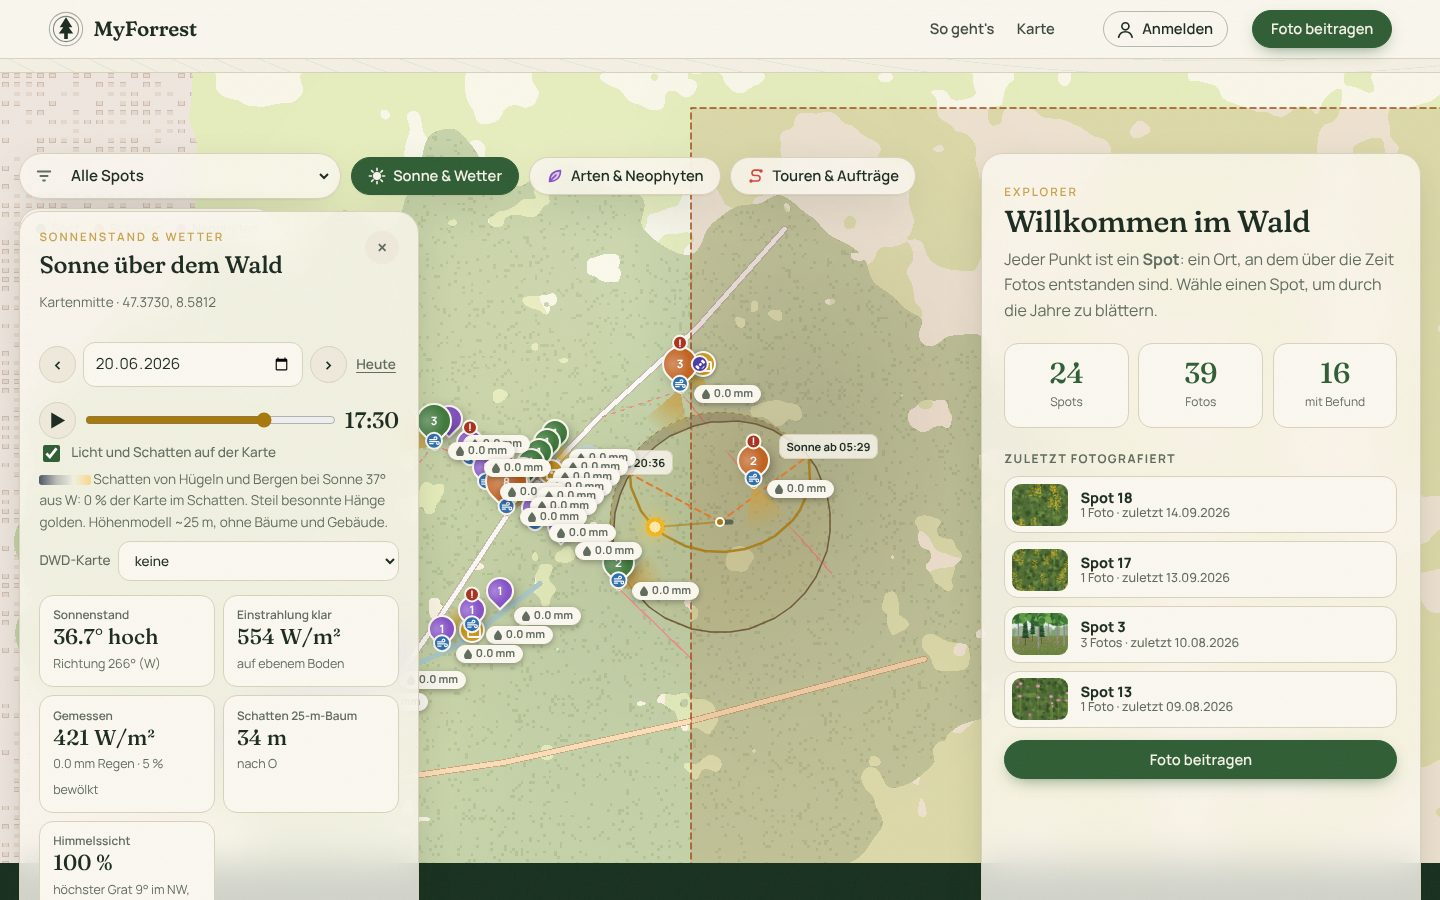
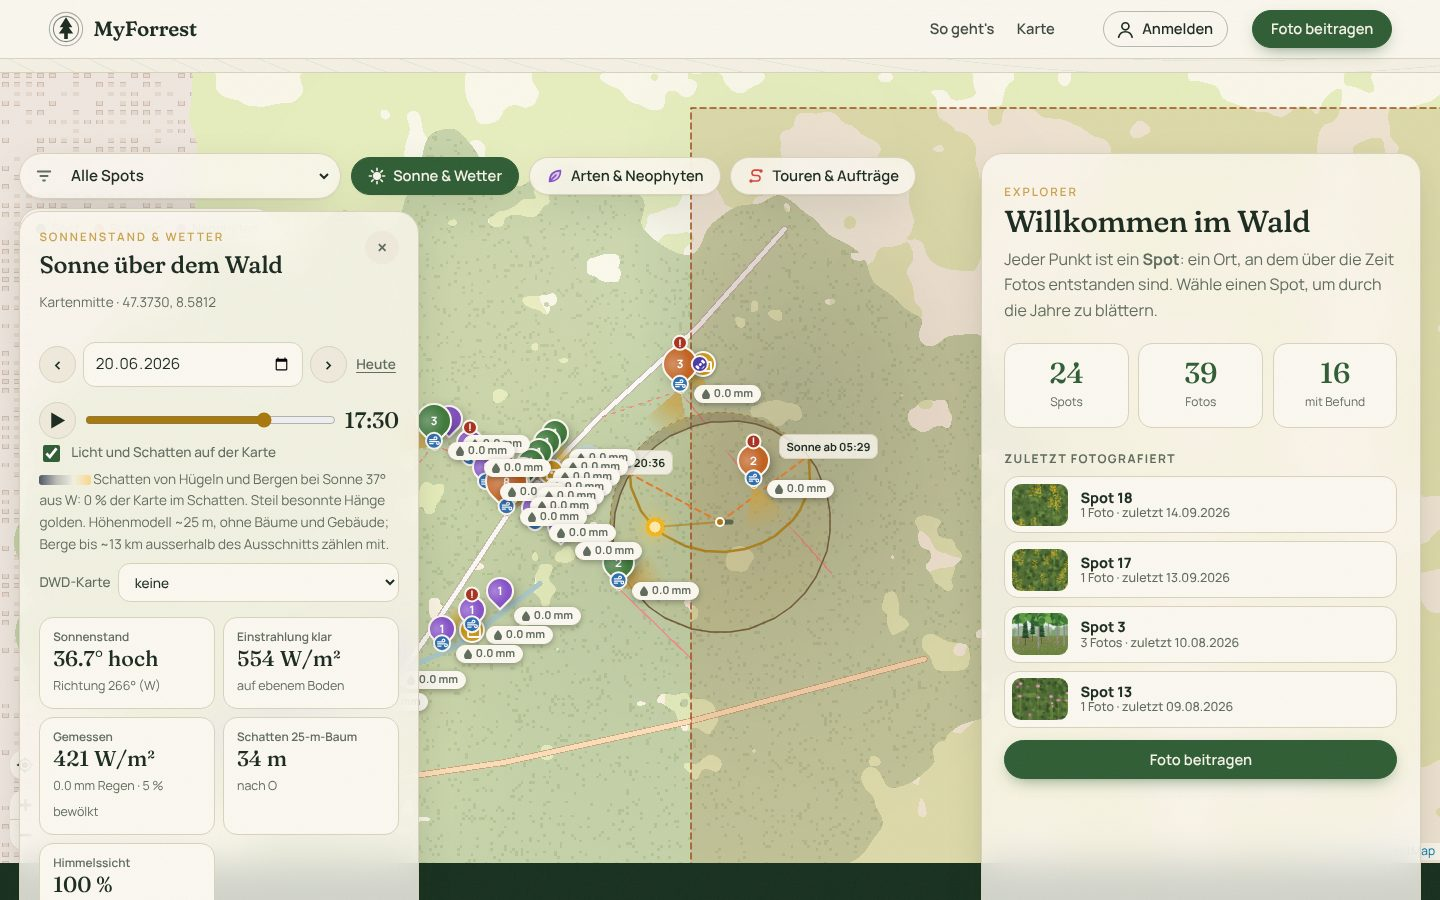
Licht und Schatten: ferne Berge, Erdkrümmung, weicher Halbschatten
- Strahl läuft nach dem feinen Raster durch ein 4× gröberes Raster der
  Umgebung weiter (bei Zoom 13 bis ~50 km), damit Jura und Alpen bei tiefer
  Sonne ihre langen Schatten werfen; Erdkrümmung mit Lichtbrechung
- Schattenrand über die Sonnenscheibe (0,53°) plus eine Zelle, bilinear
  abgetastet: weiche Kanten statt Treppen
- Panel nennt die Reichweite; Tests, Doku, Roadmap, Screenshots

Claude-Session: https://claude.ai/code/session_01LoLoiuF5pa1wgakXucVZbJ

Changed region(s): [[0.0312, 0.5911, 0.2812, 0.9956], [0.1562, 0.6533, 0.25, 0.8711], [0.9688, 0.9333, 1.0, 0.9644]]

diff --git a/public/shade.js b/public/shade.js
@@ -7,11 +7,14 @@
  * Elevations come as a grid in Web Mercator pixels (e.g. Terrarium tiles,
  * decoded with `terrarium`). For each cell of the area asked for, a ray
  * walks towards the sun one cell at a time; the cell lies in the terrain's
- * shadow as soon as the ground along the ray rises above the ray. The ray
- * stops when it is higher than the highest point of the grid or leaves the
- * grid, so terrain outside the grid casts no shadow. Slopes facing away from
- * the sun lie in their own shadow. Earth curvature is ignored (a few metres
- * over the few kilometres of a grid).
+ * shadow as soon as the ground along the ray rises above the ray (gradually,
+ * over the width of the sun's disc: the half shadow). Beyond the
+ * fine grid the ray goes on through an optional coarse grid of the wider
+ * surroundings (`far`), so distant ridges and mountains shade too when the
+ * sun is low. The ray stops when it is higher than the highest point of the
+ * grids or leaves them. Distant ground sinks with the Earth's curvature
+ * (with standard refraction). Slopes facing away from the sun lie in their
+ * own shadow.
  */
 (function (root, factory) {
   if (typeof module === 'object' && module.exports) module.exports = factory();
@@ -20,6 +23,12 @@
   'use strict';
 
   const RAD = Math.PI / 180;
+  const EARTH_R = 6371000;
+  const REFRACTION_K = 0.13;
+  const SUN_HALF_TAN = Math.tan(0.267 * RAD); // the sun's radius as seen from Earth
+  /** How much the ground at distance d (m) sinks below the tangent plane, as seen through the air. */
+  const drop = (d) => ((d * d) / (2 * EARTH_R)) * (1 - REFRACTION_K);
+  const maxOf = (a) => { let m = -Infinity; for (let i = 0; i < a.length; i++) if (a[i] > m) m = a[i]; return m; };
 
   /** Elevation in metres from a Terrarium-encoded pixel. */
   const terrarium = (r, g, b) => r * 256 + g + b / 256 - 32768;
@@ -30,11 +39,16 @@
   /**
    * Light per cell, for the cells x0 ≤ x < x0 + w, y0 ≤ y < y0 + h of the grid
    * (row-major `elev`, width `gw`, height `gh`, north up, `cellM` metres):
-   * 0 = in shadow (cast by the terrain or the slope faces away),
-   * otherwise the beam on the slope relative to flat ground (1 = as flat,
-   * > 1 facing the sun, < 1 turned away). All 0 while the sun is down.
+   * the beam on the slope relative to flat ground in full sun (1 = as flat,
+   * > 1 facing the sun, < 1 turned away, 0 = in shadow or facing away). At the
+   * edge of a shadow it falls off smoothly with the part of the sun's disc
+   * (0.53°) still above the terrain, widened by one cell so the edges do not
+   * show the grid. All 0 while the sun is down.
+   * `far` (optional): `{ elev, gw, gh, scale, ox, oy }`, a coarser grid around
+   * it, `scale` fine cells per coarse cell, the fine grid's corner at coarse
+   * cell coordinates (ox, oy).
    */
-  function light({ elev, gw, gh, cellM, altitude, azimuth, x0 = 0, y0 = 0, w = gw, h = gh }) {
+  function light({ elev, gw, gh, cellM, altitude, azimuth, x0 = 0, y0 = 0, w = gw, h = gh, far = null }) {
     const out = new Float32Array(w * h);
     if (altitude <= 0) return out;
     const tanAlt = Math.tan(altitude * RAD);
@@ -42,10 +56,19 @@
     const cosAlt = Math.cos(altitude * RAD);
     const sx = Math.sin(azimuth * RAD); // towards the sun: east …
     const sy = -Math.cos(azimuth * RAD); // … and south (rows grow southwards)
-    let top = -Infinity;
-    for (let i = 0; i < elev.length; i++) if (elev[i] > top) top = elev[i];
+    const top = maxOf(elev);
+    const farTop = far ? maxOf(far.elev) : -Infinity;
     const rise = cellM * tanAlt; // the ray climbs this much per cell
+    const farCellM = far ? cellM * far.scale : 0;
+    /** Ground between the cell centres (bilinear), so shadows follow the terrain instead of the grid. */
+    const bilinear = (e, ew, eh, qx, qy) => {
+      const fx = Math.max(0, Math.min(ew - 1.001, qx - 0.5)); const fy = Math.max(0, Math.min(eh - 1.001, qy - 0.5));
+      const i = fx | 0; const j = fy | 0; const u = fx - i; const v = fy - j; const r = j * ew + i;
+      return (e[r] * (1 - u) + e[r + 1] * u) * (1 - v) + (e[r + ew] * (1 - u) + e[r + ew + 1] * u) * v;
+    };
     const at = (x, y) => elev[Math.min(gh - 1, Math.max(0, y)) * gw + Math.min(gw - 1, Math.max(0, x))];
+    // Half the height over which the ground at distance d hides the sun's disc gradually: sun radius plus half a cell.
+    const half = (d, cell) => d * SUN_HALF_TAN + cell * tanAlt * 0.5;
 
     for (let j = 0; j < h; j++) {
       const y = y0 + j;
@@ -59,14 +82,41 @@
         const n = Math.sqrt(east * east + north * north + 1);
         const cosInc = (-east * sx * cosAlt + north * sy * cosAlt + sinAlt) / n;
         if (cosInc <= 0) continue; // the slope turns away from the sun
-        let shadow = false;
-        let px = x + 0.5; let py = y + 0.5; let ray = z;
+        let sun = 1; // part of the sun's disc above the terrain
+        const see = (ground, ray, hw) => {
+          const f = 0.5 - (ground - ray) / (2 * hw);
+          if (f < sun) sun = f < 0 ? 0 : f;
+        };
+        let px = x + 0.5; let py = y + 0.5; let ray = z; let steps = 0;
+        let inside = true;
         for (;;) {
-          px += sx; py += sy; ray += rise;
-          if (ray >= top || px < 0 || py < 0 || px >= gw || py >= gh) break;
-          if (elev[(py | 0) * gw + (px | 0)] > ray) { shadow = true; break; }
+          px += sx; py += sy; ray += rise; steps++;
+          if (px < 0 || py < 0 || px >= gw || py >= gh) { inside = false; break; }
+          const hw = half(steps * cellM, cellM);
+          if (ray - hw >= top) {
+            if (!far || ray >= farTop) break;
+            // Nothing here reaches the ray any more: jump to the edge of the fine grid.
+            const k = Math.ceil(Math.min(sx > 0 ? (gw - px) / sx : sx < 0 ? -px / sx : Infinity, sy > 0 ? (gh - py) / sy : sy < 0 ? -py / sy : Infinity)) - 1;
+            if (k > 0) { px += k * sx; py += k * sy; ray += k * rise; steps += k; }
+            continue;
+          }
+          see(bilinear(elev, gw, gh, px, py) - drop(steps * cellM), ray, hw);
+          if (sun === 0) break;
         }
-        if (!shadow) out[j * w + i] = cosInc / sinAlt;
+        if (sun > 0 && !inside && far && ray < farTop) {
+          // On through the wider surroundings, a coarse cell at a time.
+          let qx = far.ox + px / far.scale; let qy = far.oy + py / far.scale;
+          let dist = steps * cellM;
+          for (;;) {
+            qx += sx; qy += sy; dist += farCellM; ray += rise * far.scale;
+            if (qx < 0 || qy < 0 || qx >= far.gw || qy >= far.gh) break;
+            const hw = half(dist, farCellM);
+            if (ray - hw >= farTop) break;
+            see(bilinear(far.elev, far.gw, far.gh, qx, qy) - drop(dist), ray, hw);
+            if (sun === 0) break;
+          }
+        }
+        out[j * w + i] = sun * cosInc / sinAlt;
       }
     }
     return out;

diff --git a/public/sunmap.js b/public/sunmap.js
@@ -299,7 +299,7 @@
   let shadeOverlay = null;
   let shadeToken = 0;
   let shadeFrame = 0;
-  let dem = null; // { key, z, tx0, ty0, gw, gh, elev, missing }
+  let dem = null; // fine grid of the view ({ z, tx0, ty0, gw, gh, elev }) with `far`, the coarse surroundings
   const demTiles = new Map();
   const shadeOn = () => sm.open && $('shade-toggle').checked;
 
@@ -328,20 +328,15 @@
     return demTiles.get(key);
   }
 
-  /**
-   * Elevation grid for the view at DEM zoom map zoom − 2 (≤ 13), with one tile
-   * of margin all round, so hills just outside the view still cast shadows.
-   */
-  async function loadDem() {
+  /** Elevations at DEM zoom `z` for the view plus `margin` tiles all round: `{ key, z, tx0, ty0, gw, gh, elev, missing, total }`. */
+  async function loadGrid(z, margin) {
     const zoom = map.getZoom();
-    const z = Math.min(13, Math.round(zoom) - 2);
     const s = 2 ** (z - zoom);
     const b = map.getPixelBounds();
     const n = 2 ** z;
-    const tx0 = Math.floor((b.min.x * s) / 256) - 1; const tx1 = Math.floor((b.max.x * s) / 256) + 1;
-    const ty0 = Math.max(0, Math.floor((b.min.y * s) / 256) - 1); const ty1 = Math.min(n - 1, Math.floor((b.max.y * s) / 256) + 1);
+    const tx0 = Math.floor((b.min.x * s) / 256) - margin; const tx1 = Math.floor((b.max.x * s) / 256) + margin;
+    const ty0 = Math.max(0, Math.floor((b.min.y * s) / 256) - margin); const ty1 = Math.min(n - 1, Math.floor((b.max.y * s) / 256) + margin);
     const key = `${z}/${tx0}/${ty0}/${tx1}/${ty1}`;
-    if (dem?.key === key) return dem;
     const cols = tx1 - tx0 + 1; const rows = ty1 - ty0 + 1;
     const tiles = await Promise.all(Array.from({ length: cols * rows }, (_, k) => demTile(z, (((tx0 + (k % cols)) % n) + n) % n, ty0 + Math.floor(k / cols))));
     const gw = cols * 256; const gh = rows * 256;
@@ -355,7 +350,29 @@
         else elev.fill(-500, (oy + y) * gw + ox, (oy + y) * gw + ox + 256); // no data: low, casts no shadow
       }
     });
-    dem = { key, z, tx0, ty0, gw, gh, elev, missing, total: tiles.length };
+    return { key, z, tx0, ty0, gw, gh, elev, missing, total: tiles.length };
+  }
+
+  /**
+   * Elevations for the shading: the view at DEM zoom map zoom − 2 (≤ 13) with
+   * one tile of margin, and the wider surroundings 4× coarser (one tile of
+   * margin there reaches ~13 km at map zoom 15, ~50 km at 13), so distant ridges and
+   * mountains cast their long shadows when the sun is low.
+   */
+  async function loadDem() {
+    const z = Math.min(13, Math.round(map.getZoom()) - 2);
+    const zc = Math.max(3, z - 2);
+    const key = `${map.getPixelBounds().min}:${map.getZoom()}`;
+    if (dem?.key === key) return dem;
+    const [fine, coarse] = await Promise.all([loadGrid(z, 1), loadGrid(zc, 1)]);
+    const scale = 2 ** (z - zc);
+    dem = {
+      ...fine,
+      key,
+      far: { elev: coarse.elev, gw: coarse.gw, gh: coarse.gh, scale, ox: (fine.tx0 * 256) / scale - coarse.tx0 * 256, oy: (fine.ty0 * 256) / scale - coarse.ty0 * 256 },
+      missing: fine.missing + coarse.missing,
+      total: fine.total + coarse.total,
+    };
     return dem;
   }
 
@@ -414,7 +431,7 @@
       lit = Shade.light({
         elev: grid.elev, gw: grid.gw, gh: grid.gh, cellM: Shade.metresPerPixel(centre.lat, z),
         altitude: sun.altitude, azimuth: sun.azimuth,
-        x0: x0 - grid.tx0 * 256, y0: y0 - grid.ty0 * 256, w, h,
+        x0: x0 - grid.tx0 * 256, y0: y0 - grid.ty0 * 256, w, h, far: grid.far,
       });
     }
     const canvas = document.createElement('canvas');
@@ -430,8 +447,9 @@
         let r = 12; let g = 20; let bl = 40;
         if (lit) {
           const v = lit[k];
-          if (v === 0) { shaded++; a = Math.max(a, 0.42); r = 20; g = 32; bl = 58; } else if (v < 1) {
-            a = Math.max(a, 0.34 * (1 - v)); r = 20; g = 32; bl = 58;
+          if (v < 0.05) shaded++;
+          if (v < 1) {
+            a = Math.max(a, 0.42 * (1 - v)); r = 20; g = 32; bl = 58; // shadow, half shadow, slopes turned away
           } else if (v > 1.05 && a === 0) {
             a = Math.min(0.2, (v - 1) * 0.16); r = 255; g = 196; bl = 80; // steep in the sun: warm light
           }
@@ -452,7 +470,8 @@
     else if (!grid) text = zoom < SHADE_MIN_ZOOM ? 'Tag und Nacht; Schatten von Hügeln und Bergen ab näherem Zoom.' : 'Höhendaten nicht verfügbar, nur Tag und Nacht.';
     else {
       text = ` Schatten von Hügeln und Bergen bei Sonne ${deg(sun.altitude)} aus ${Sun.compass(sun.azimuth)}: ${Math.round((100 * shaded) / (w * h))} % der Karte im Schatten.`
-        + ' Steil besonnte Hänge golden. Höhenmodell ~25 m, ohne Bäume und Gebäude.'
+        + ' Steil besonnte Hänge golden. Höhenmodell ~25 m, ohne Bäume und Gebäude;'
+        + ` Berge bis ~${fmtNum((Shade.metresPerPixel(centre.lat, grid.z) * grid.far.scale * 256) / 1000, 0)} km ausserhalb des Ausschnitts zählen mit.`
         + (grid.missing ? ` ${grid.missing} von ${grid.total} Höhenkacheln fehlen.` : '');
     }
     status.hidden = false;

diff --git a/test/shade.test.js b/test/shade.test.js
@@ -59,3 +59,32 @@ test('night and twilight darkening', () => {
   assert.ok(civil > 0.4 && civil < 0.6, `end of civil twilight ${civil}`);
   assert.ok(Shade.night(-3) < civil && Shade.night(-9) > civil);
 });
+
+test('distant mountains in the coarse grid shade the view when the sun is low', () => {
+  const gw = 20; const gh = 20;
+  const fine = { elev: new Float32Array(gw * gh).fill(400), gw, gh, cellM: 10 };
+  // Coarse grid of 100-m cells; the fine grid covers coarse cells 10–12. A 1500-m ridge 1.8–2.1 km to the east.
+  const fw = 40; const fh = 40;
+  const coarse = new Float32Array(fw * fh).fill(400);
+  for (let y = 0; y < fh; y++) for (let x = 30; x < 33; x++) coarse[y * fw + x] = 1500;
+  const far = { elev: coarse, gw: fw, gh: fh, scale: 10, ox: 10, oy: 10 };
+  const low = { altitude: 20, azimuth: 90 };
+  assert.ok(Shade.light({ ...fine, ...low }).every((v) => v > 0), 'without the surroundings all in sun');
+  assert.ok(Shade.light({ ...fine, ...low, far }).every((v) => v === 0), 'the ridge shades everything');
+  assert.ok(Shade.light({ ...fine, altitude: 40, azimuth: 90, far }).every((v) => v > 0), 'a higher sun clears the ridge');
+  assert.ok(Shade.light({ ...fine, altitude: 20, azimuth: 270, far }).every((v) => v > 0), 'sun from the other side');
+  // A small hill in the fine grid does not stop the search for the ridge behind it.
+  const hill = Float32Array.from(fine.elev);
+  hill[10 * gw + 18] = 420;
+  const r = Shade.light({ ...fine, elev: hill, ...low, far });
+  assert.equal(r[10 * gw + 5], 0);
+});
+
+test('shadow edges fade over the sun disc instead of jumping', () => {
+  const g = wall();
+  const r = Array.from(Shade.light({ ...g, altitude: 45, azimuth: 270 }).slice(10 * g.gw + 12, 11 * g.gw));
+  for (let i = 1; i < r.length; i++) assert.ok(r[i] >= r[i - 1] - 1e-6, `light grows away from the wall: ${r.map((v) => v.toFixed(2))}`);
+  assert.ok(r.some((v) => v > 0.05 && v < 0.95), 'a half shadow at the edge');
+  assert.equal(r[0], 0);
+  assert.ok(Math.abs(r[r.length - 1] - 1) < 1e-6);
+});

diff --git a/docs/roadmap.md b/docs/roadmap.md
@@ -62,7 +62,7 @@ mit echten Dateien und Diensten; das steht jeweils als offener Punkt dabei.
 - **Licht, Schatten und Wetterkarten**: die DWD-Ebenen gegen den echten Dienst prüfen (Namen, Zeiten des Radars;
   bisher mit Testdaten im Format der Capabilities); ein Radar für die ganze Schweiz (MeteoSchweiz, sobald als
   offener Dienst verfügbar); Schatten von Wald und Gebäuden aus einem Oberflächenmodell (swissSURFACE3D) statt
-  nur vom Gelände; ferne Berge bei sehr tiefer Sonne mitrechnen.
+  nur vom Gelände; die Rechnung in einen Web Worker verlegen, damit das Abspielen auch im Gebirge flüssig bleibt.
 - **Vegetationsdichte verfeinern**: Himmel und Vegetation mit einem Segmentierungsmodell statt Farbregeln
   trennen (Schnee, helle Felsen und Mauern gelten heute teils als Himmel); Kennzahlen nur im Bildteil
   vergleichen, den alle Fotos eines Spots abdecken.
@@ -127,8 +127,9 @@ Aus früheren Versionen dieser Roadmap, nach Themen:
   Kreuzvalidierung nach Spots, getrennt für Laub- und Nadelwald
 - Frühwarnung als Push-Nachricht an Leute, die den Spot regelmässig besuchen oder ihm folgen
 - Angleichung von Landsat an Sentinel-2 aus den Überlappungsjahren
-- Licht und Schatten auf der Karte: Geländeschatten zur gewählten Zeit, steil besonnte Hänge, Tag, Nacht und
-  Dämmerung; Niederschlagsradar und Warnungen des DWD einblendbar
+- Licht und Schatten auf der Karte: Geländeschatten zur gewählten Zeit, auch von fernen Bergen bei tiefer Sonne,
+  mit weichem Halbschatten; steil besonnte Hänge, Tag, Nacht und Dämmerung; Niederschlagsradar und Warnungen
+  des DWD einblendbar
 
 ### Arten und geschützte Funde
 

diff --git a/docs/funktionen.md b/docs/funktionen.md
@@ -910,10 +910,13 @@ der gewählten Zeit über die ganze Karte, nicht nur über den Spot:
 
 Gerechnet wird im Browser (`public/shade.js`): Für jede Zelle des Höhenmodells läuft ein Strahl Richtung
 Sonne, bis er höher ist als alles Gelände ringsum. Die Höhen kommen als Kacheln der
-[Terrain Tiles](https://registry.opendata.aws/terrain-tiles/) (AWS Open Data, in Europa EU-DEM mit ~25 m),
-eine Kachel Rand rund um den Ausschnitt; Berge weiter weg werfen keinen Schatten auf die Karte (bei sehr
-tiefer Sonne fehlt so ein Teil der langen Schatten). Bäume und Gebäude sind nicht im Höhenmodell; den Schatten
-eines einzelnen Baums zeigt weiterhin die Linie am Spot.
+[Terrain Tiles](https://registry.opendata.aws/terrain-tiles/) (AWS Open Data, in Europa EU-DEM mit ~25 m):
+fein für den Ausschnitt und eine Kachel Rand, dazu viermal gröber für die weitere Umgebung. So werfen auch
+ferne Grate und Berge ihre langen Schatten, wenn die Sonne tief steht: bei Zoomstufe 13 Gelände bis etwa
+50 km ausserhalb des Ausschnitts, bei 15 etwa 13 km; das Panel nennt die Reichweite. Weit entferntes Gelände
+sinkt mit der Erdkrümmung (samt Lichtbrechung) ab. Der Rand eines Schattens ist weich: Er verläuft über die
+Breite der Sonnenscheibe (0,53°), der Halbschatten ist bei fernen Bergen breiter als bei nahen. Bäume und
+Gebäude sind nicht im Höhenmodell; den Schatten eines einzelnen Baums zeigt weiterhin die Linie am Spot.
 
 ### DWD-Karten einblenden
 
